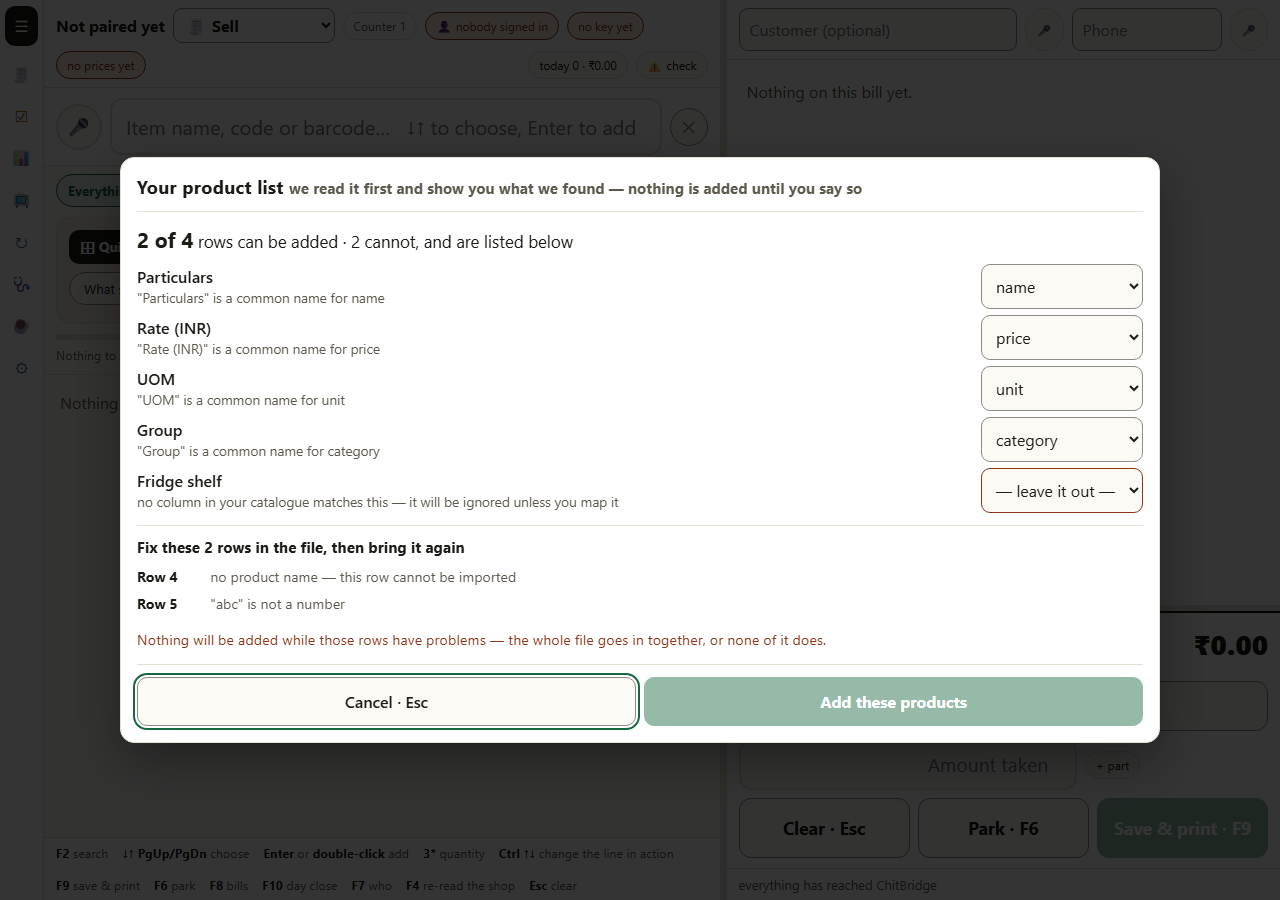
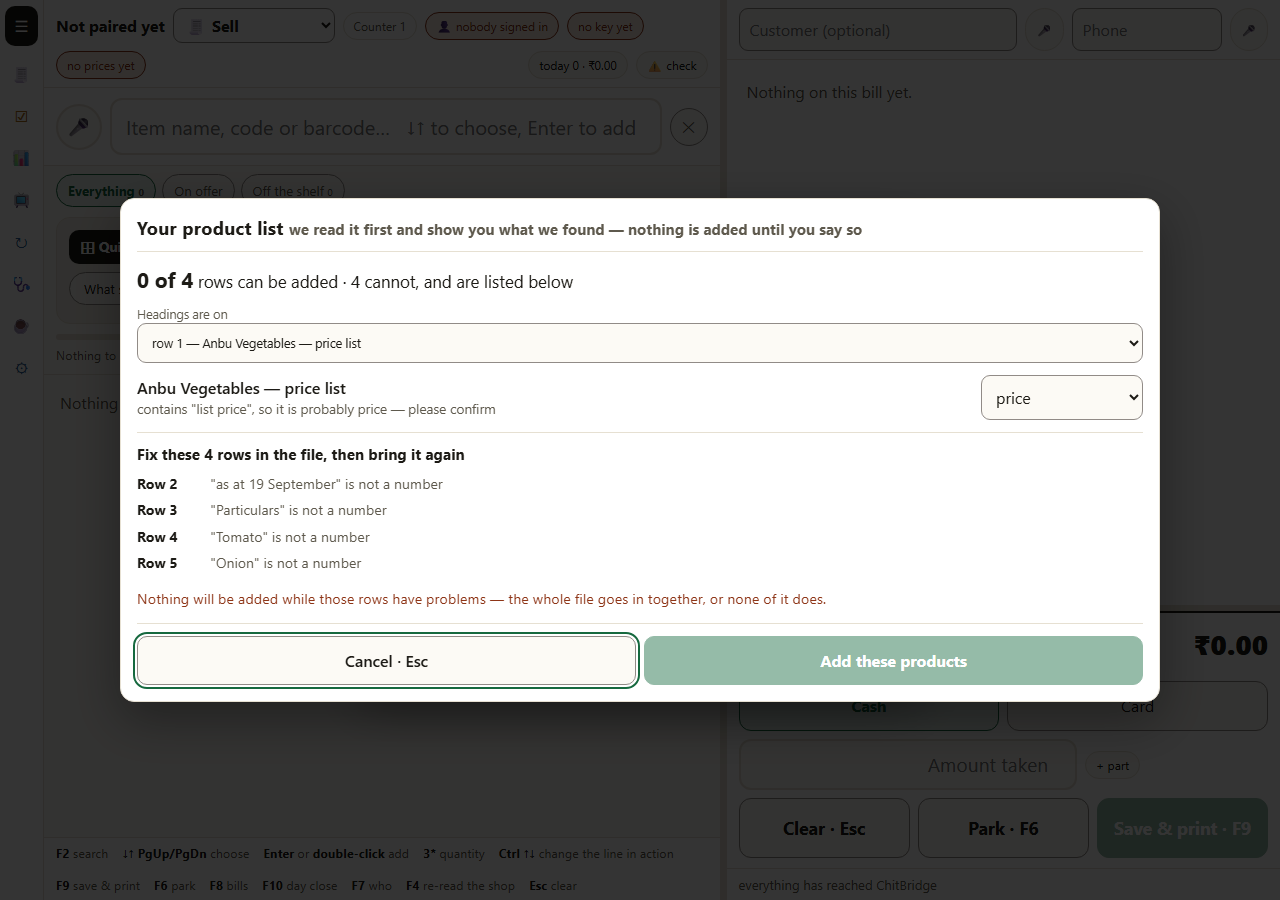
[TILL-110] the heading-row control, and the screenshot that shows why
The harness drives a file that opens with the shop's name: the title is
read as a heading, the person picks row 3 from a list showing the rows
as they actually read, the file is re-read on the server, and the
columns change. It also asserts the commit carries header_row — without
that the server would re-read from row 1 and import against headings
nobody approved, which is a silent mismatch between the report and what
gets written.

png/Upload.png now shows that case rather than a clean one: "0 of 4 rows
can be added", the title guessed as "price" because it contains "list
price", and every data row failing as "not a number" — which is exactly
what a wrong heading row looks like, with the fix sitting above it.

Claude-Session: https://claude.ai/code/session_017uqXYS4i4jpqCE9pJcP691

diff --git a/public/till.html b/public/till.html
@@ -1962,6 +1962,10 @@
   .upbody{margin:6px 0 12px;max-height:60vh;overflow-y:auto;min-height:0}
   .uphead{font-size:1.05em;margin-bottom:10px}
   .uphead b{font-size:1.25em}
+  /* ⭐ quiet, above the columns — it is a correction most files will not need */
+  .uphead2{margin:0 0 12px;font-size:.92em;color:var(--dim)}
+  .uphead2 select{font:inherit;padding:5px 8px;border:1px solid var(--line);border-radius:8px;
+                  background:var(--paper);color:var(--ink);max-width:100%}
   .upcols{display:grid;grid-template-columns:1fr auto;gap:6px 12px;align-items:center;margin-bottom:12px}
   .upcols .inc{font-weight:600;min-width:0;overflow-wrap:anywhere}
   .upcols .inc span{display:block;font-weight:400;color:var(--dim);font-size:.85em}
@@ -13098,7 +13102,7 @@ function regWords(){
  */
 var TRADES = null;
 /* ── ⭐⭐⭐ THE UPLOAD, READ BEFORE IT BECOMES DATA ([TILL-108]) ────────────────────────── */
-var UP = { csv: '', xlsx: '', name: '', report: null, decisions: {} };
+var UP = { csv: '', xlsx: '', name: '', headerRow: null, report: null, decisions: {} };
 
 /**
  * ⭐ A SPREADSHEET OR A .csv ([TILL-109]). Athi: *"most shops will have excel files"* — and "save it as CSV
@@ -13115,7 +13119,8 @@ function upPick(){
 
 async function upRead(file){
   var d = document.getElementById('updlg'); if (!d) return;
-  UP = { csv: '', report: null, decisions: {} };
+  /* ⚠ a NEW file starts clean — carrying the last file's heading row over would silently mis-read this one */
+  UP = { csv: '', xlsx: '', name: '', headerRow: null, report: null, decisions: {} };
   document.getElementById('upbody').innerHTML = '<p class="note">Reading ' + esc(file.name) + '…</p>';
   document.getElementById('upgo').disabled = true;
   upSay('', false);
@@ -13159,6 +13164,8 @@ async function upRead(file){
     return;
   }
   UP.report = r.report;
+  /* ⭐ the server decides which row it used; the page records it so the commit sends the same one */
+  UP.headerRow = Number(r.header_row || 1);
   upPaint(r);
 }
 
@@ -13181,6 +13188,26 @@ function upPaint(r){
     out.push('<p class="note" data-testid="till-upload-sheet">Read from the sheet <b>' + esc(r.sheet || '')
       + '</b>. That workbook also has: ' + esc(r.sheets.filter(function(n){ return n !== r.sheet; }).join(', '))
       + '. If the products are on one of those, say so and bring it again.</p>');
+  }
+
+  /**
+   * ⭐⭐⭐ WHICH ROW HOLDS THE HEADINGS ([TILL-110]). A real workbook opens with the shop's name, a date, or a
+   * merged title — and the reader takes the first row with anything in it, which is then wrong. The rows are
+   * offered AS THEY READ so a person recognises theirs; asking for a number means counting lines in a file
+   * that is not on the screen.
+   */
+  if (r.preview && r.preview.length > 1) {
+    var chosen = Number(r.header_row || 1);
+    out.push('<div class="uphead2" data-testid="till-upload-headrow">'
+      + '<label>Headings are on '
+      + '<select data-testid="till-headrow" onchange="upHeadRow(this.value)">'
+      + r.preview.map(function(p){
+          var txt = (p.cells || []).filter(function(c){ return String(c).trim(); }).slice(0, 5).join(', ');
+          if (txt.length > 64) txt = txt.slice(0, 64) + '…';
+          return '<option value="' + p.row + '"' + (p.row === chosen ? ' selected' : '') + '>'
+            + 'row ' + p.row + (txt ? ' — ' + esc(txt) : ' — (empty)') + '</option>';
+        }).join('')
+      + '</select></label></div>');
   }
 
   /* ⚠ EVERY COLUMN IS SHOWN, including the ones that matched — a person checking an import checks the
@@ -13222,6 +13249,27 @@ function upPaint(r){
   upReady();
 }
 
+/**
+ * ⚠⚠ A DIFFERENT HEADING ROW MEANS A DIFFERENT FILE, so the column answers are thrown away rather than
+ * carried over: they were answers about columns that no longer exist under those names. Keeping them would
+ * map "Rate (INR)" onto whatever now sits in that position.
+ */
+async function upHeadRow(v){
+  var n = Number(v);
+  if (!n || n === (UP.headerRow || 1)) return;
+  UP.headerRow = n;
+  UP.decisions = {};
+  document.getElementById('upgo').disabled = true;
+  upSay('Reading it again from row ' + n + '…', false);
+  var r = null;
+  try { r = await HOST.tillPost('/api/products/import/preflight', upBody(), { noQueue: true }); } catch (_) { r = null; }
+  if (!r || !r.ok || !r.report) {
+    upSay(((r && r.why) || 'ChitBridge could not be reached') + '. Nothing has been added.', true);
+    return;
+  }
+  UP.report = r.report;
+  upPaint(r);
+}
 /** a person's answer for one column — the ONLY thing the commit acts on */
 function upDecide(sel){
   UP.decisions[sel.getAttribute('data-inc')] = sel.value;
@@ -13260,7 +13308,13 @@ function upReady(){
  * ⚠ ONE BODY BUILDER, used by the preflight AND the commit. They must send the SAME file — the commit
  * re-reads it and re-runs the preflight, which only means anything if it is reading what was approved.
  */
-function upBody(){ return UP.xlsx ? { xlsx: UP.xlsx } : { csv: UP.csv }; }
+function upBody(){
+  var b = UP.xlsx ? { xlsx: UP.xlsx } : { csv: UP.csv };
+  /* ⚠⚠ THE COMMIT SENDS IT TOO. Without this the server would re-read the file from row 1 and import
+     against headings nobody approved — the report would have been about a different reading of the file. */
+  if (UP.headerRow && UP.headerRow > 1) b.header_row = UP.headerRow;
+  return b;
+}
 
 /**
  * ⚠⚠ NOT btoa(String.fromCharCode(...bytes)). Spreading a megabyte of bytes into apply() overflows the
